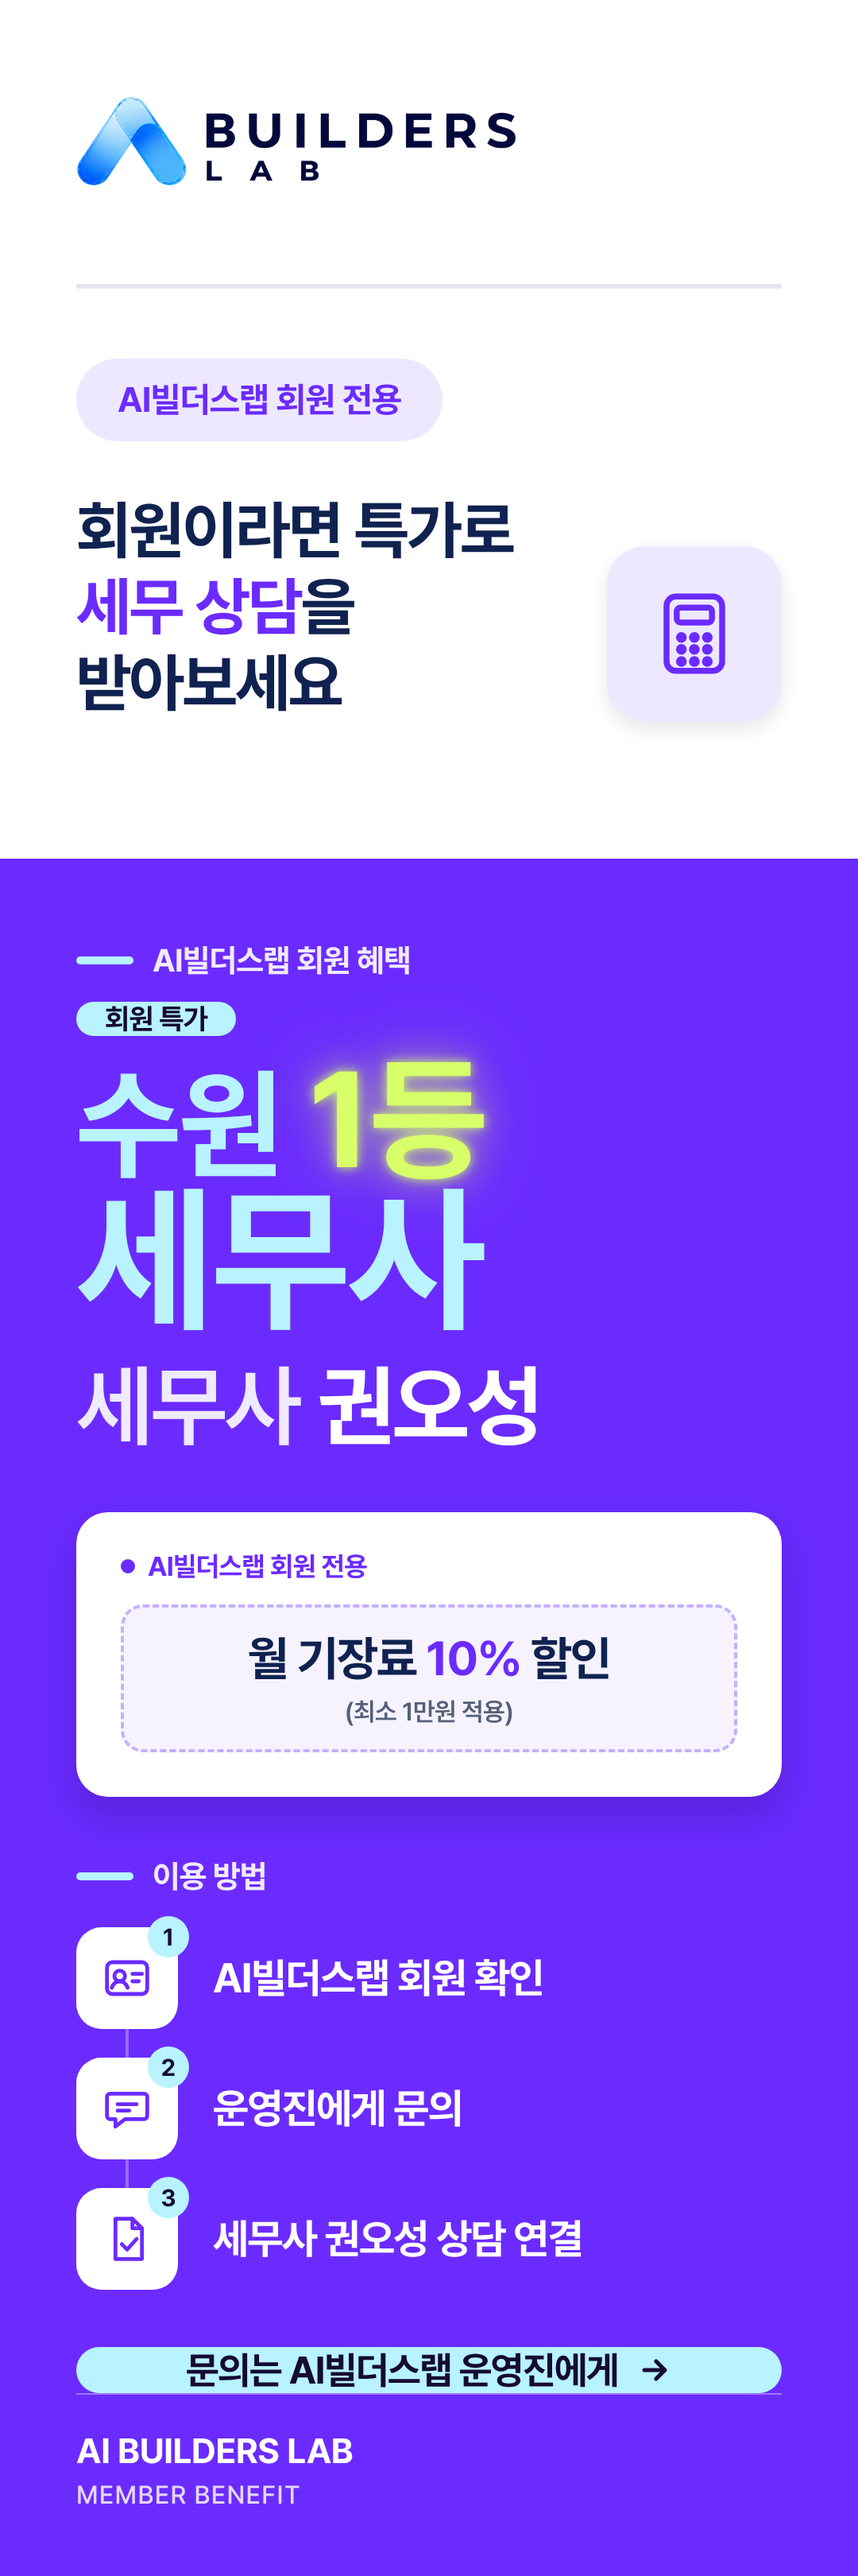
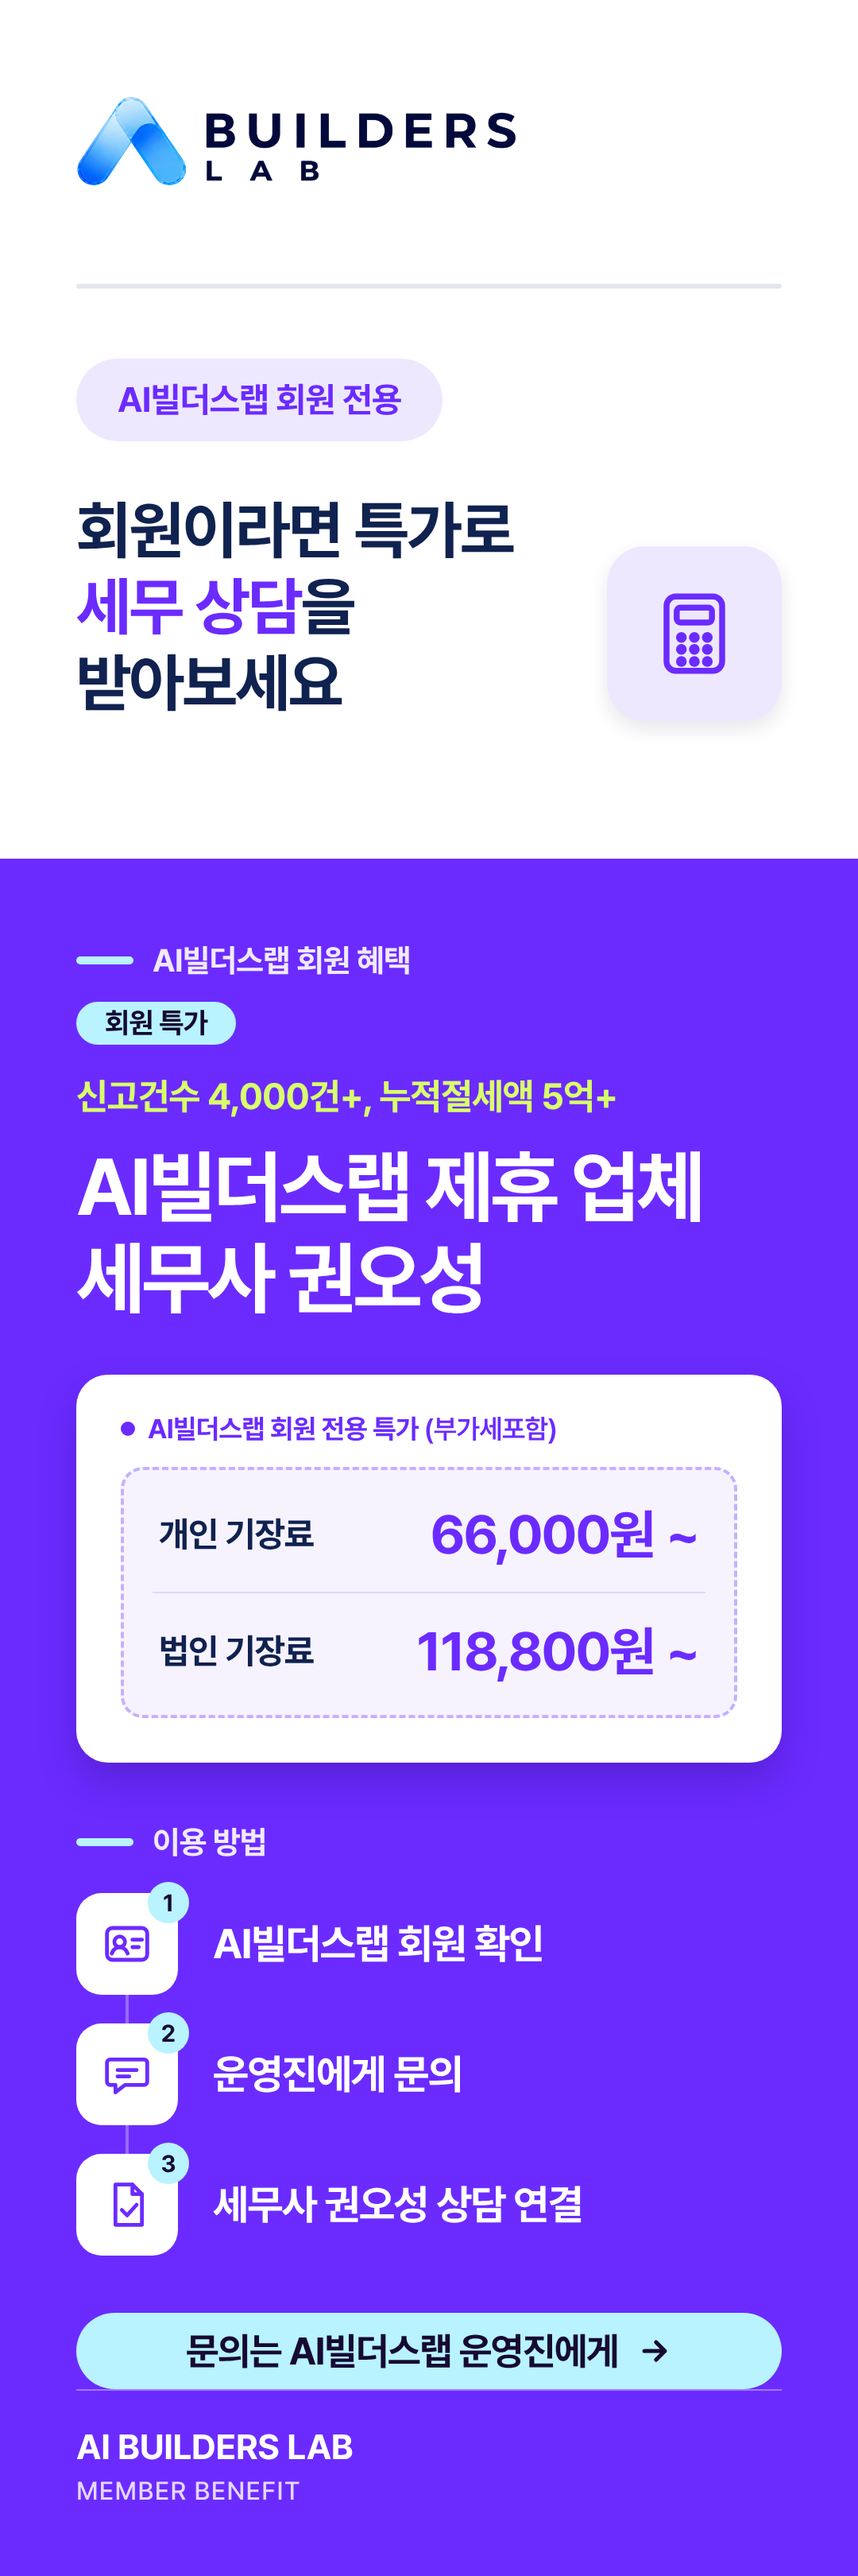
C-violet 최종본: 제휴 업체·기장료 특가로 교체
사용자 목업을 반영해 '수원 1등'과 10% 할인 문구를 빼고, 실적 한 줄과 개인·법인 기장료 특가 카드를 넣는다.

Changed region(s): [[0.0917, 0.3741, 0.9167, 0.9664]]

diff --git a/src/banner-C-violet-horizontal.html b/src/banner-C-violet-horizontal.html
@@ -10,50 +10,54 @@
   body { font-family: 'Pretendard', sans-serif; word-break: keep-all; -webkit-font-smoothing: antialiased; }
   .poster {
     position: relative; width: 1200px; height: 400px; overflow: hidden; background: #6B2BFF; color: #fff;
-    display: flex; align-items: stretch; padding: 40px 44px;
+    display: flex; align-items: stretch; padding: 36px 40px;
   }
 
-  .left { flex: none; width: 260px; display: flex; flex-direction: column; justify-content: space-between; }
-  .chip { width: 260px; height: 108px; background: #fff; border-radius: 24px; display: flex; align-items: center; justify-content: center; box-shadow: 0 10px 24px rgba(40,10,120,0.25); }
-  .chip img { width: 216px; height: auto; display: block; }
+  .left { flex: none; width: 240px; display: flex; flex-direction: column; justify-content: space-between; }
+  .chip { width: 240px; height: 100px; background: #fff; border-radius: 24px; display: flex; align-items: center; justify-content: center; box-shadow: 0 10px 24px rgba(40,10,120,0.25); }
+  .chip img { width: 200px; height: auto; display: block; }
   .foot { border-top: 2px solid rgba(255,255,255,0.36); padding-top: 14px; }
   .foot b { display: block; font-size: 20px; font-weight: 800; letter-spacing: -0.01em; }
   .foot span { display: block; margin-top: 4px; font-size: 18px; font-weight: 500; letter-spacing: 0.04em; color: rgba(255,255,255,0.82); }
 
-  .center { flex: 1; display: flex; flex-direction: column; justify-content: center; padding: 0 24px 0 44px; }
+  .center { flex: 1; display: flex; flex-direction: column; justify-content: center; padding: 0 20px 0 36px; min-width: 0; }
   .badges { display: flex; align-items: center; gap: 8px; flex-wrap: wrap; }
   .badge {
-    display: inline-flex; align-items: center; height: 36px; padding: 0 16px;
-    background: #EEE8FF; color: #6B2BFF; border-radius: 18px; font-size: 16px; font-weight: 700; letter-spacing: -0.02em;
+    display: inline-flex; align-items: center; height: 34px; padding: 0 14px;
+    background: #EEE8FF; color: #6B2BFF; border-radius: 17px; font-size: 15px; font-weight: 700; letter-spacing: -0.02em;
   }
   .deal-badge {
-    display: inline-flex; align-items: center; height: 36px; padding: 0 16px;
-    background: #B8F3FF; color: #160A33; border-radius: 18px; font-size: 16px; font-weight: 800; letter-spacing: -0.02em;
+    display: inline-flex; align-items: center; height: 34px; padding: 0 14px;
+    background: #B8F3FF; color: #160A33; border-radius: 17px; font-size: 15px; font-weight: 800; letter-spacing: -0.02em;
   }
-  .mega { margin-top: 10px; font-weight: 900; color: #B8F3FF; letter-spacing: -0.06em; }
-  .mega .l1, .mega .l2 { display: block; line-height: 0.95; white-space: nowrap; }
-  .mega .l1 { font-size: 52px; }
-  .mega .l2 { font-size: 80px; }
-  .mega em { font-style: normal; color: #D8FF6A; background: none; font-size: 1.12em;
-             text-shadow: 0 0 0.08em rgba(216,255,106,0.95), 0 0 0.28em rgba(216,255,106,0.55), 0 0 0.55em rgba(216,255,106,0.35); }
-  .bar { margin-top: 14px; width: 64px; height: 8px; border-radius: 4px; background: #B8F3FF; }
+  .stats {
+    margin-top: 12px; font-size: 20px; line-height: 1.3; font-weight: 800;
+    color: #D8FF6A; letter-spacing: -0.02em; white-space: nowrap;
+  }
+  .headline {
+    margin-top: 8px; font-size: 42px; line-height: 1.16; font-weight: 800;
+    color: #fff; letter-spacing: -0.04em;
+  }
+  .headline span { display: block; white-space: nowrap; }
 
-  .right { flex: none; width: 384px; display: flex; flex-direction: column; justify-content: center; }
-  .name { font-size: 46px; line-height: 1.1; font-weight: 800; letter-spacing: -0.03em; white-space: nowrap; }
-  .name small { font-size: 46px; font-weight: 600; opacity: 0.9; margin-right: 12px; }
-  .offer-card { margin-top: 18px; background: #fff; border-radius: 20px; padding: 10px; box-shadow: 0 12px 28px rgba(40,10,120,0.28); }
+  .right { flex: none; width: 400px; display: flex; flex-direction: column; justify-content: center; }
+  .offer-card { background: #fff; border-radius: 20px; padding: 12px 14px 14px; box-shadow: 0 12px 28px rgba(40,10,120,0.28); }
+  .offer-label { display: flex; align-items: center; gap: 8px; font-size: 14px; font-weight: 700; color: #6B2BFF; letter-spacing: -0.02em; }
+  .offer-label .dot { flex: none; width: 8px; height: 8px; border-radius: 50%; background: #6B2BFF; }
+  .offer-label small { font-weight: 600; font-size: 1em; }
   .offer-box {
-    min-height: 0; padding: 12px 16px; border: 3px dashed #C4B0FF; border-radius: 14px; background: #F6F3FF;
-    display: flex; flex-direction: column; align-items: center; justify-content: center; text-align: center; gap: 3px;
+    margin-top: 8px; padding: 2px 14px;
+    border: 2px dashed #C4B0FF; border-radius: 12px; background: #F6F3FF;
+    display: flex; flex-direction: column;
   }
-  .offer-kicker { font-size: 15px; font-weight: 700; color: #6B2BFF; letter-spacing: -0.02em; }
-  .offer-main { font-size: 28px; line-height: 1.15; font-weight: 800; color: #10224F; letter-spacing: -0.03em; }
-  .offer-main em { font-style: normal; color: #6B2BFF; }
-  .offer-note { font-size: 14px; font-weight: 600; color: #55607A; letter-spacing: -0.02em; }
+  .price-row { display: flex; align-items: center; justify-content: space-between; gap: 12px; padding: 10px 0; }
+  .price-row + .price-row { border-top: 1px solid #E0D6FF; }
+  .price-name { font-size: 16px; font-weight: 700; color: #10224F; letter-spacing: -0.02em; }
+  .price-val { font-size: 26px; font-weight: 800; color: #6B2BFF; letter-spacing: -0.03em; white-space: nowrap; }
   .cta {
-    margin-top: 16px; height: 56px; border-radius: 28px; background: #B8F3FF; color: #160A33;
+    margin-top: 12px; height: 52px; border-radius: 26px; background: #B8F3FF; color: #160A33;
     display: flex; align-items: center; justify-content: center; gap: 10px;
-    font-size: 22px; font-weight: 800; letter-spacing: -0.03em;
+    font-size: 20px; font-weight: 800; letter-spacing: -0.03em;
   }
 </style>
 </head>
@@ -69,21 +73,20 @@
       <span class="badge">AI빌더스랩 회원 전용</span>
       <span class="deal-badge">회원 특가</span>
     </div>
-    <h1 class="mega"><span class="l1">수원 <em>1등</em></span><span class="l2">세무사</span></h1>
-    <div class="bar"></div>
+    <p class="stats">신고건수 4,000건+, 누적절세액 5억+</p>
+    <h1 class="headline"><span>AI빌더스랩 제휴 업체</span><span>세무사 권오성</span></h1>
   </div>
 
   <div class="right">
-    <div class="name"><small>세무사</small>권오성</div>
     <div class="offer-card">
+      <div class="offer-label"><span class="dot"></span><span>AI빌더스랩 회원 전용 특가 <small>(부가세포함)</small></span></div>
       <div class="offer-box">
-        <div class="offer-kicker" data-slot="offer-label">AI빌더스랩 회원 전용</div>
-        <div class="offer-main" data-slot="offer-main">월 기장료 <em>10%</em> 할인</div>
-        <div class="offer-note" data-slot="offer-note">(최소 1만원 적용)</div>
+        <div class="price-row"><span class="price-name">개인 기장료</span><span class="price-val">66,000원 ~</span></div>
+        <div class="price-row"><span class="price-name">법인 기장료</span><span class="price-val">118,800원 ~</span></div>
       </div>
     </div>
     <div class="cta">문의는 AI빌더스랩 운영진에게
-      <svg width="24" height="24" viewBox="0 0 24 24" fill="none" stroke="#160A33" stroke-width="2.8" stroke-linecap="round" stroke-linejoin="round"><path d="M5 12h14M13 6l6 6-6 6"/></svg>
+      <svg width="22" height="22" viewBox="0 0 24 24" fill="none" stroke="#160A33" stroke-width="2.8" stroke-linecap="round" stroke-linejoin="round"><path d="M5 12h14M13 6l6 6-6 6"/></svg>
     </div>
   </div>
 </div>

diff --git a/index.html b/index.html
@@ -1,6 +1,6 @@
 <!doctype html><html lang="ko"><head><meta charset="utf-8"><meta name="viewport" content="width=device-width,initial-scale=1">
 <title>세무사 권오성 · AI빌더스랩 회원 특가 배너 시안</title>
-<meta name="description" content="AI빌더스랩 회원 전용 세무사 배너 시안 미리보기와 다운로드. 시안 C 울트라 바이올렛 최종, 수원 1등 세무사, 월 기장료 10% 할인(최소 1만원 적용)">
+<meta name="description" content="AI빌더스랩 회원 전용 세무사 배너 시안 미리보기와 다운로드. 시안 C 울트라 바이올렛 최종, AI빌더스랩 제휴 업체 세무사 권오성, 회원 전용 특가(부가세포함) 개인 기장료 66,000원 ~, 법인 기장료 118,800원 ~">
 <link rel="stylesheet" href="https://cdn.jsdelivr.net/gh/orioncactus/pretendard@v1.3.9/dist/web/static/pretendard.min.css">
 <style>
 *{box-sizing:border-box}body{margin:0;font-family:Pretendard,-apple-system,sans-serif;background:#F4F6FB;color:#10224F;word-break:keep-all}
@@ -38,10 +38,10 @@ footer{background:#1E5EFF;color:#fff;padding:28px 0;margin-top:40px}footer b{dis
 </style></head><body>
 <header><div class="wrap"><div class="top"><img src="logo.png" alt="AI BUILDERS LAB"><span class="pill">AI빌더스랩 회원 전용</span></div>
 <div class="hero"><span class="pill">시안 C 울트라 바이올렛 최종</span><h1>세무사 권오성<br><b>회원 특가</b> 배너</h1><div class="bar"></div>
-<p>시안 C 울트라 바이올렛을 최종으로 확정했어요. “수원 1등 세무사”를 강조했고, 특가는 AI빌더스랩 회원 전용 월 기장료 10% 할인(최소 1만원 적용)입니다. 아래에서 세로(1080×3240)·가로(1200×400) PNG를 내려받을 수 있어요.</p>
+<p>시안 C 울트라 바이올렛을 최종으로 확정했어요. “AI빌더스랩 제휴 업체 세무사 권오성”과 실적(신고건수 4,000건+, 누적절세액 5억+), 회원 전용 특가(부가세포함) 개인 기장료 66,000원 ~ · 법인 기장료 118,800원 ~을 담았습니다. 아래에서 세로(1080×3240)·가로(1200×400) PNG를 내려받을 수 있어요.</p>
 <nav class="jump"><a href="#vA">시안 A</a><a href="#vB">시안 B</a><a href="#vC">시안 C</a><a class="sel" href="#violet">울트라 바이올렛 최종</a><a href="#colors">컬러 3종</a><a href="#comments">댓글</a></nav></div></div></header>
 <main class="wrap">
-<div class="note"><b>시안 C 울트라 바이올렛 최종: 수원 1등 세무사 · 월 기장료 10% 할인(최소 1만원 적용).</b><p>같은 특가는 시안 C 원안과 다른 컬러 3종에도 들어 있어요. 시안 A·B의 특가 자리는 아직 비어 있습니다. 문의는 AI빌더스랩 운영진에게.</p></div>
+<div class="note"><b>시안 C 울트라 바이올렛 최종: AI빌더스랩 제휴 업체 세무사 권오성 · 회원 전용 특가(부가세포함) 개인 기장료 66,000원 ~, 법인 기장료 118,800원 ~.</b><p>최종본에는 “수원 1등”과 월 기장료 10% 할인 문구가 없습니다. 시안 C 원안과 레드·라임 컬러는 기존 10% 할인 특가가 그대로입니다. 시안 A·B의 특가 자리는 아직 비어 있습니다. 문의는 AI빌더스랩 운영진에게.</p></div>
 <section class="card" id="vA">
   <div class="head"><span class="tag">시안 A</span><h2>레퍼런스형</h2><p>레퍼런스 그대로: 흰 상단 대형 3줄 타이포(회원 특가/세무사/권오성) + 하단 블루 블록에 연두 특가 슬롯</p></div>
   <div class="prev">
@@ -85,7 +85,7 @@ footer{background:#1E5EFF;color:#fff;padding:28px 0;margin-top:40px}footer b{dis
     </article>
     <article class="color-card" id="violet">
       <div class="stripe" style="background:#6B2BFF"></div>
-      <div class="meta"><span class="dot" style="background:#6B2BFF"></span><div><h3>울트라 바이올렛 <span class="tag final" style="margin-left:8px;vertical-align:middle">최종</span></h3><p class="hex">#6B2BFF · 액센트 #B8F3FF · 수원 1등 세무사</p></div></div>
+      <div class="meta"><span class="dot" style="background:#6B2BFF"></span><div><h3>울트라 바이올렛 <span class="tag final" style="margin-left:8px;vertical-align:middle">최종</span></h3><p class="hex">#6B2BFF · 액센트 #B8F3FF · 제휴 업체 세무사 권오성</p></div></div>
       <div class="prev">
         <figure class="vert"><img src="png/C-violet-vertical.png" alt="시안 C 울트라 바이올렛 세로 1080×3240" loading="lazy"><figcaption>세로 1080×3240</figcaption>
           <a class="btn violet" href="png/C-violet-vertical.png" download="taxbanner-C-violet-vertical.png">세로 PNG 내려받기</a></figure>

diff --git a/src/banner-C-violet-vertical.html b/src/banner-C-violet-vertical.html
@@ -35,31 +35,35 @@
     background: #B8F3FF; color: #160A33; border-radius: 36px;
     font-size: 36px; font-weight: 800; letter-spacing: -0.02em;
   }
-  .mega { margin-top: 24px; font-weight: 900; color: #B8F3FF; letter-spacing: -0.06em; }
-  .mega .l1, .mega .l2 { display: block; line-height: 0.95; }
-  .mega .l1 { font-size: 152px; }
-  .mega .l2 { font-size: 200px; }
-  .mega em { font-style: normal; color: #D8FF6A; background: none; font-size: 1.12em;
-             text-shadow: 0 0 0.08em rgba(216,255,106,0.95), 0 0 0.28em rgba(216,255,106,0.55), 0 0 0.55em rgba(216,255,106,0.35); }
-  .name { margin-top: 28px; font-size: 112px; line-height: 1.1; font-weight: 800; letter-spacing: -0.03em; }
-  .name small { font-size: 112px; font-weight: 600; opacity: 0.9; margin-right: 24px; }
-  .sub { margin-top: 36px; font-size: 40px; line-height: 1.45; font-weight: 500; color: rgba(255,255,255,0.88); letter-spacing: -0.02em; }
+  .stats {
+    margin-top: 36px; font-size: 46px; line-height: 1.25; font-weight: 800;
+    color: #D8FF6A; letter-spacing: -0.02em;
+  }
+  .headline {
+    margin-top: 28px; font-size: 100px; line-height: 1.15; font-weight: 800;
+    color: #fff; letter-spacing: -0.04em;
+  }
+  .headline span { display: block; }
 
   .offer-card {
-    margin-top: 72px; background: #fff; border-radius: 40px; padding: 48px 56px 56px;
+    margin-top: 64px; background: #fff; border-radius: 40px; padding: 48px 56px 56px;
     box-shadow: 0 24px 48px rgba(40,10,120,0.28);
   }
   .offer-label { display: flex; align-items: center; gap: 16px; font-size: 34px; font-weight: 700; color: #6B2BFF; letter-spacing: -0.02em; }
-  .offer-label .dot { width: 18px; height: 18px; border-radius: 50%; background: #6B2BFF; }
+  .offer-label .dot { flex: none; width: 18px; height: 18px; border-radius: 50%; background: #6B2BFF; }
+  .offer-label small { font-weight: 600; font-size: 1em; }
   .offer-box {
-    margin-top: 28px; min-height: 168px; padding: 28px 40px;
+    margin-top: 28px; padding: 8px 36px;
     border: 4px dashed #C4B0FF; border-radius: 28px; background: #F6F3FF;
-    display: flex; align-items: center; justify-content: center; text-align: center;
+    display: flex; flex-direction: column;
   }
-  .offer-stack { display: flex; flex-direction: column; align-items: center; gap: 12px; }
-  .offer-main { font-size: 60px; line-height: 1.2; font-weight: 800; color: #10224F; letter-spacing: -0.03em; }
-  .offer-main em { font-style: normal; color: #6B2BFF; }
-  .offer-note { font-size: 32px; font-weight: 600; color: #55607A; letter-spacing: -0.02em; }
+  .price-row {
+    display: flex; align-items: center; justify-content: space-between;
+    gap: 24px; padding: 32px 8px;
+  }
+  .price-row + .price-row { border-top: 2px solid #E0D6FF; }
+  .price-name { font-size: 44px; font-weight: 700; color: #10224F; letter-spacing: -0.02em; }
+  .price-val { font-size: 68px; font-weight: 800; color: #6B2BFF; letter-spacing: -0.03em; white-space: nowrap; }
 
   .flow-title { margin-top: 76px; font-size: 40px; font-weight: 700; color: rgba(255,255,255,0.90); letter-spacing: -0.02em; display: flex; align-items: center; gap: 24px; }
   .flow-title i { display: block; width: 72px; height: 10px; border-radius: 5px; background: #B8F3FF; }
@@ -115,16 +119,14 @@
   <section class="blue">
     <div class="eyebrow"><i></i>AI빌더스랩 회원 혜택</div>
     <div class="deal-badge">회원 특가</div>
-    <h1 class="mega"><span class="l1">수원 <em>1등</em></span><span class="l2">세무사</span></h1>
-    <div class="name"><small>세무사</small>권오성</div>
+    <p class="stats">신고건수 4,000건+, 누적절세액 5억+</p>
+    <h1 class="headline"><span>AI빌더스랩 제휴 업체</span><span>세무사 권오성</span></h1>
 
     <div class="offer-card">
-      <div class="offer-label"><span class="dot"></span><span data-slot="offer-label">AI빌더스랩 회원 전용</span></div>
+      <div class="offer-label"><span class="dot"></span><span>AI빌더스랩 회원 전용 특가 <small>(부가세포함)</small></span></div>
       <div class="offer-box">
-        <div class="offer-stack">
-          <div class="offer-main" data-slot="offer-main">월 기장료 <em>10%</em> 할인</div>
-          <div class="offer-note" data-slot="offer-note">(최소 1만원 적용)</div>
-        </div>
+        <div class="price-row"><span class="price-name">개인 기장료</span><span class="price-val">66,000원 ~</span></div>
+        <div class="price-row"><span class="price-name">법인 기장료</span><span class="price-val">118,800원 ~</span></div>
       </div>
     </div>
 
